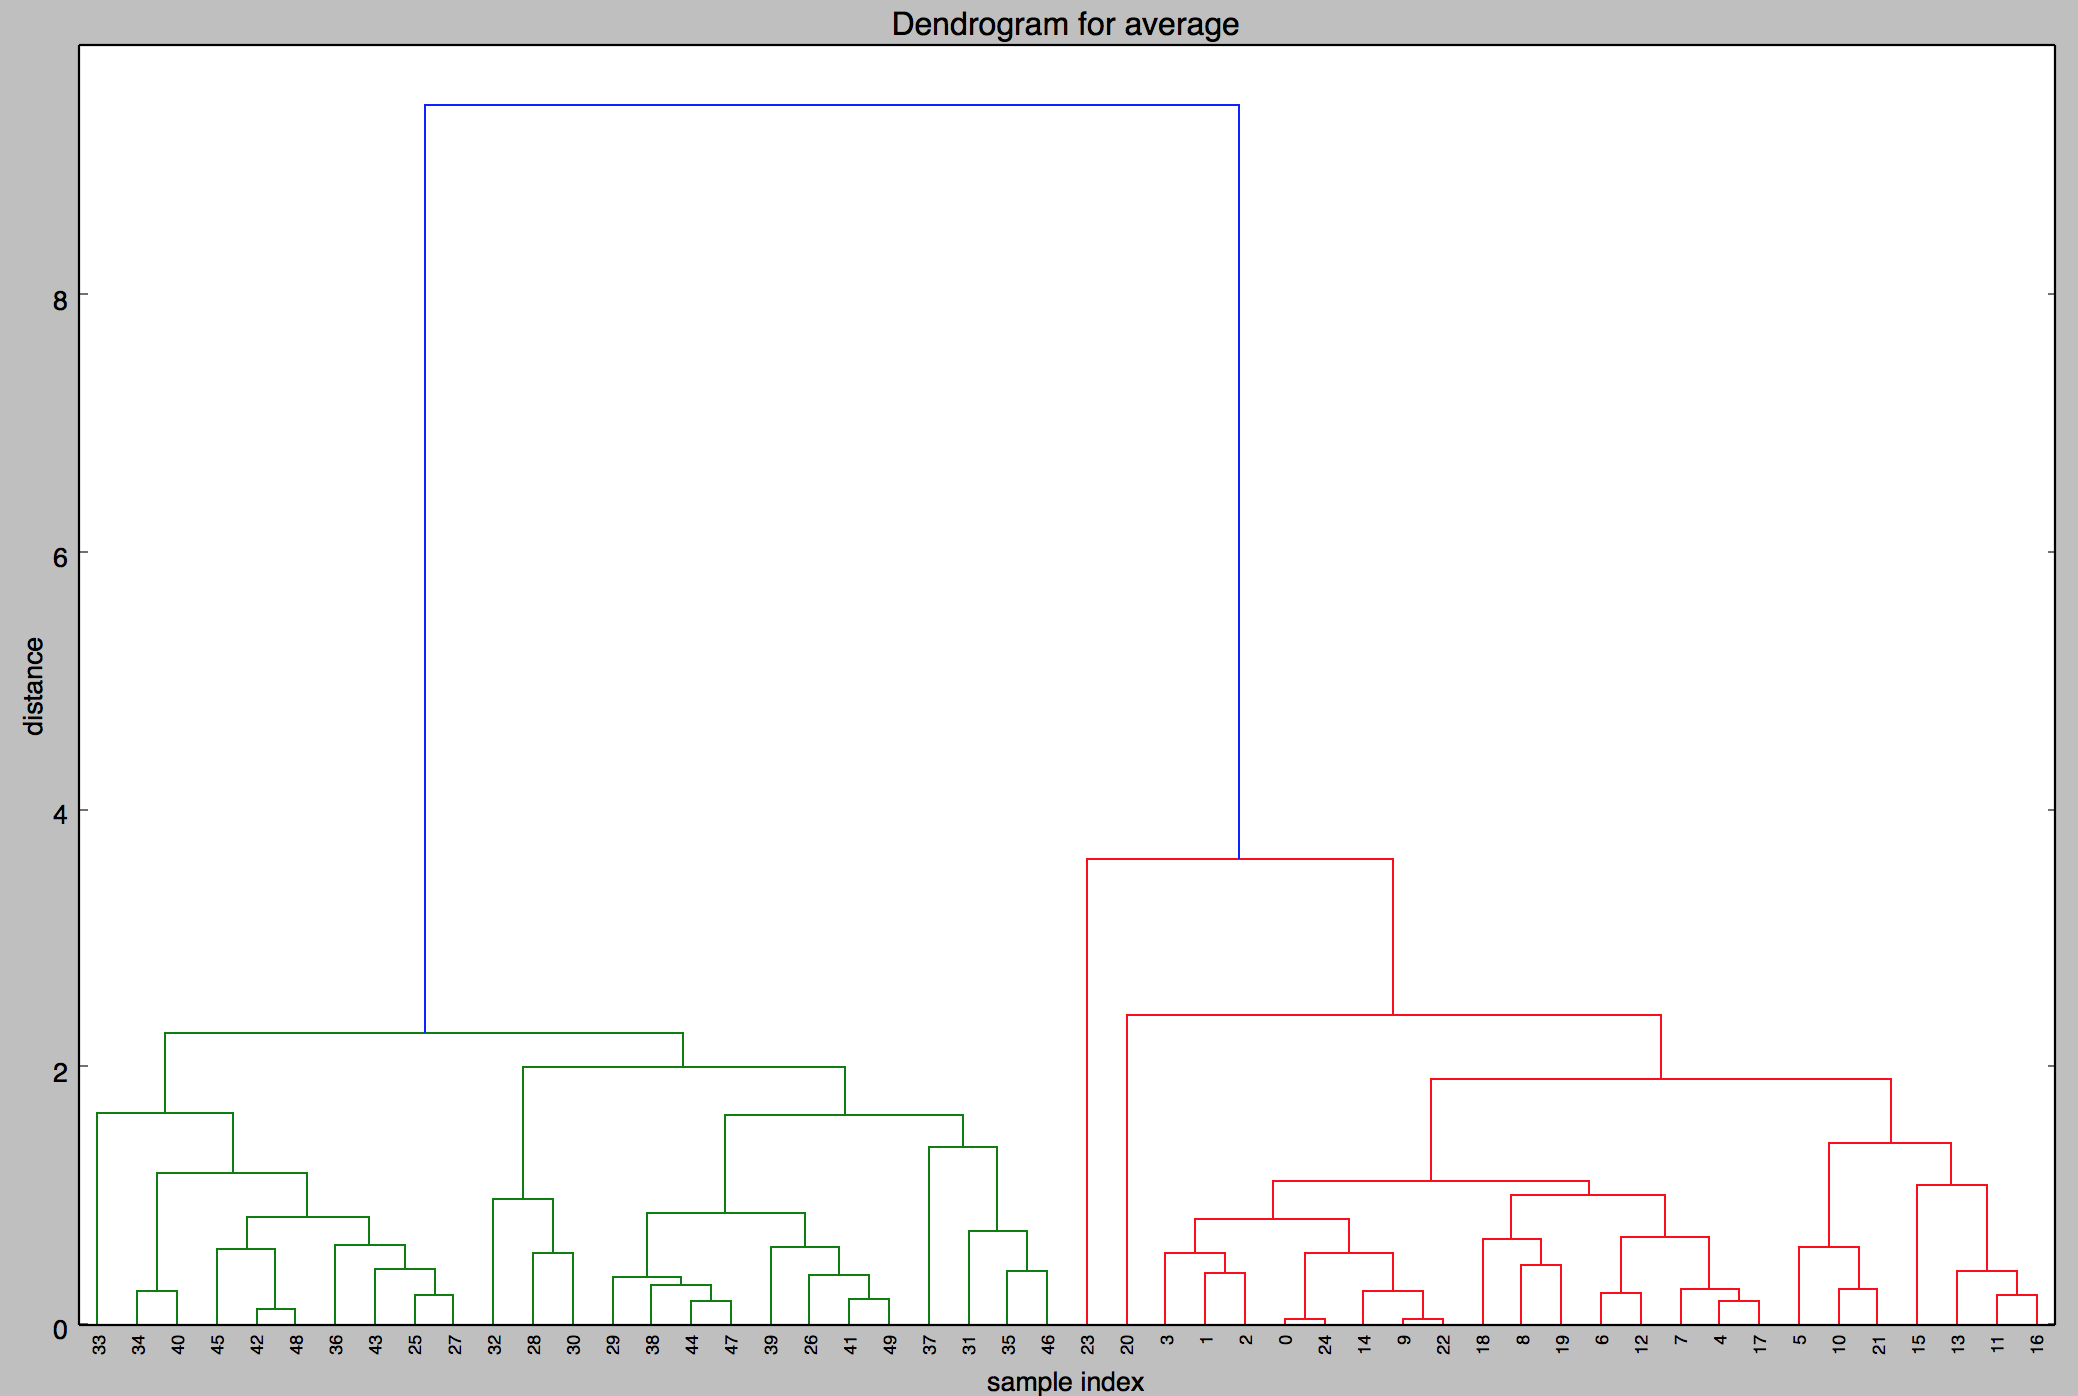
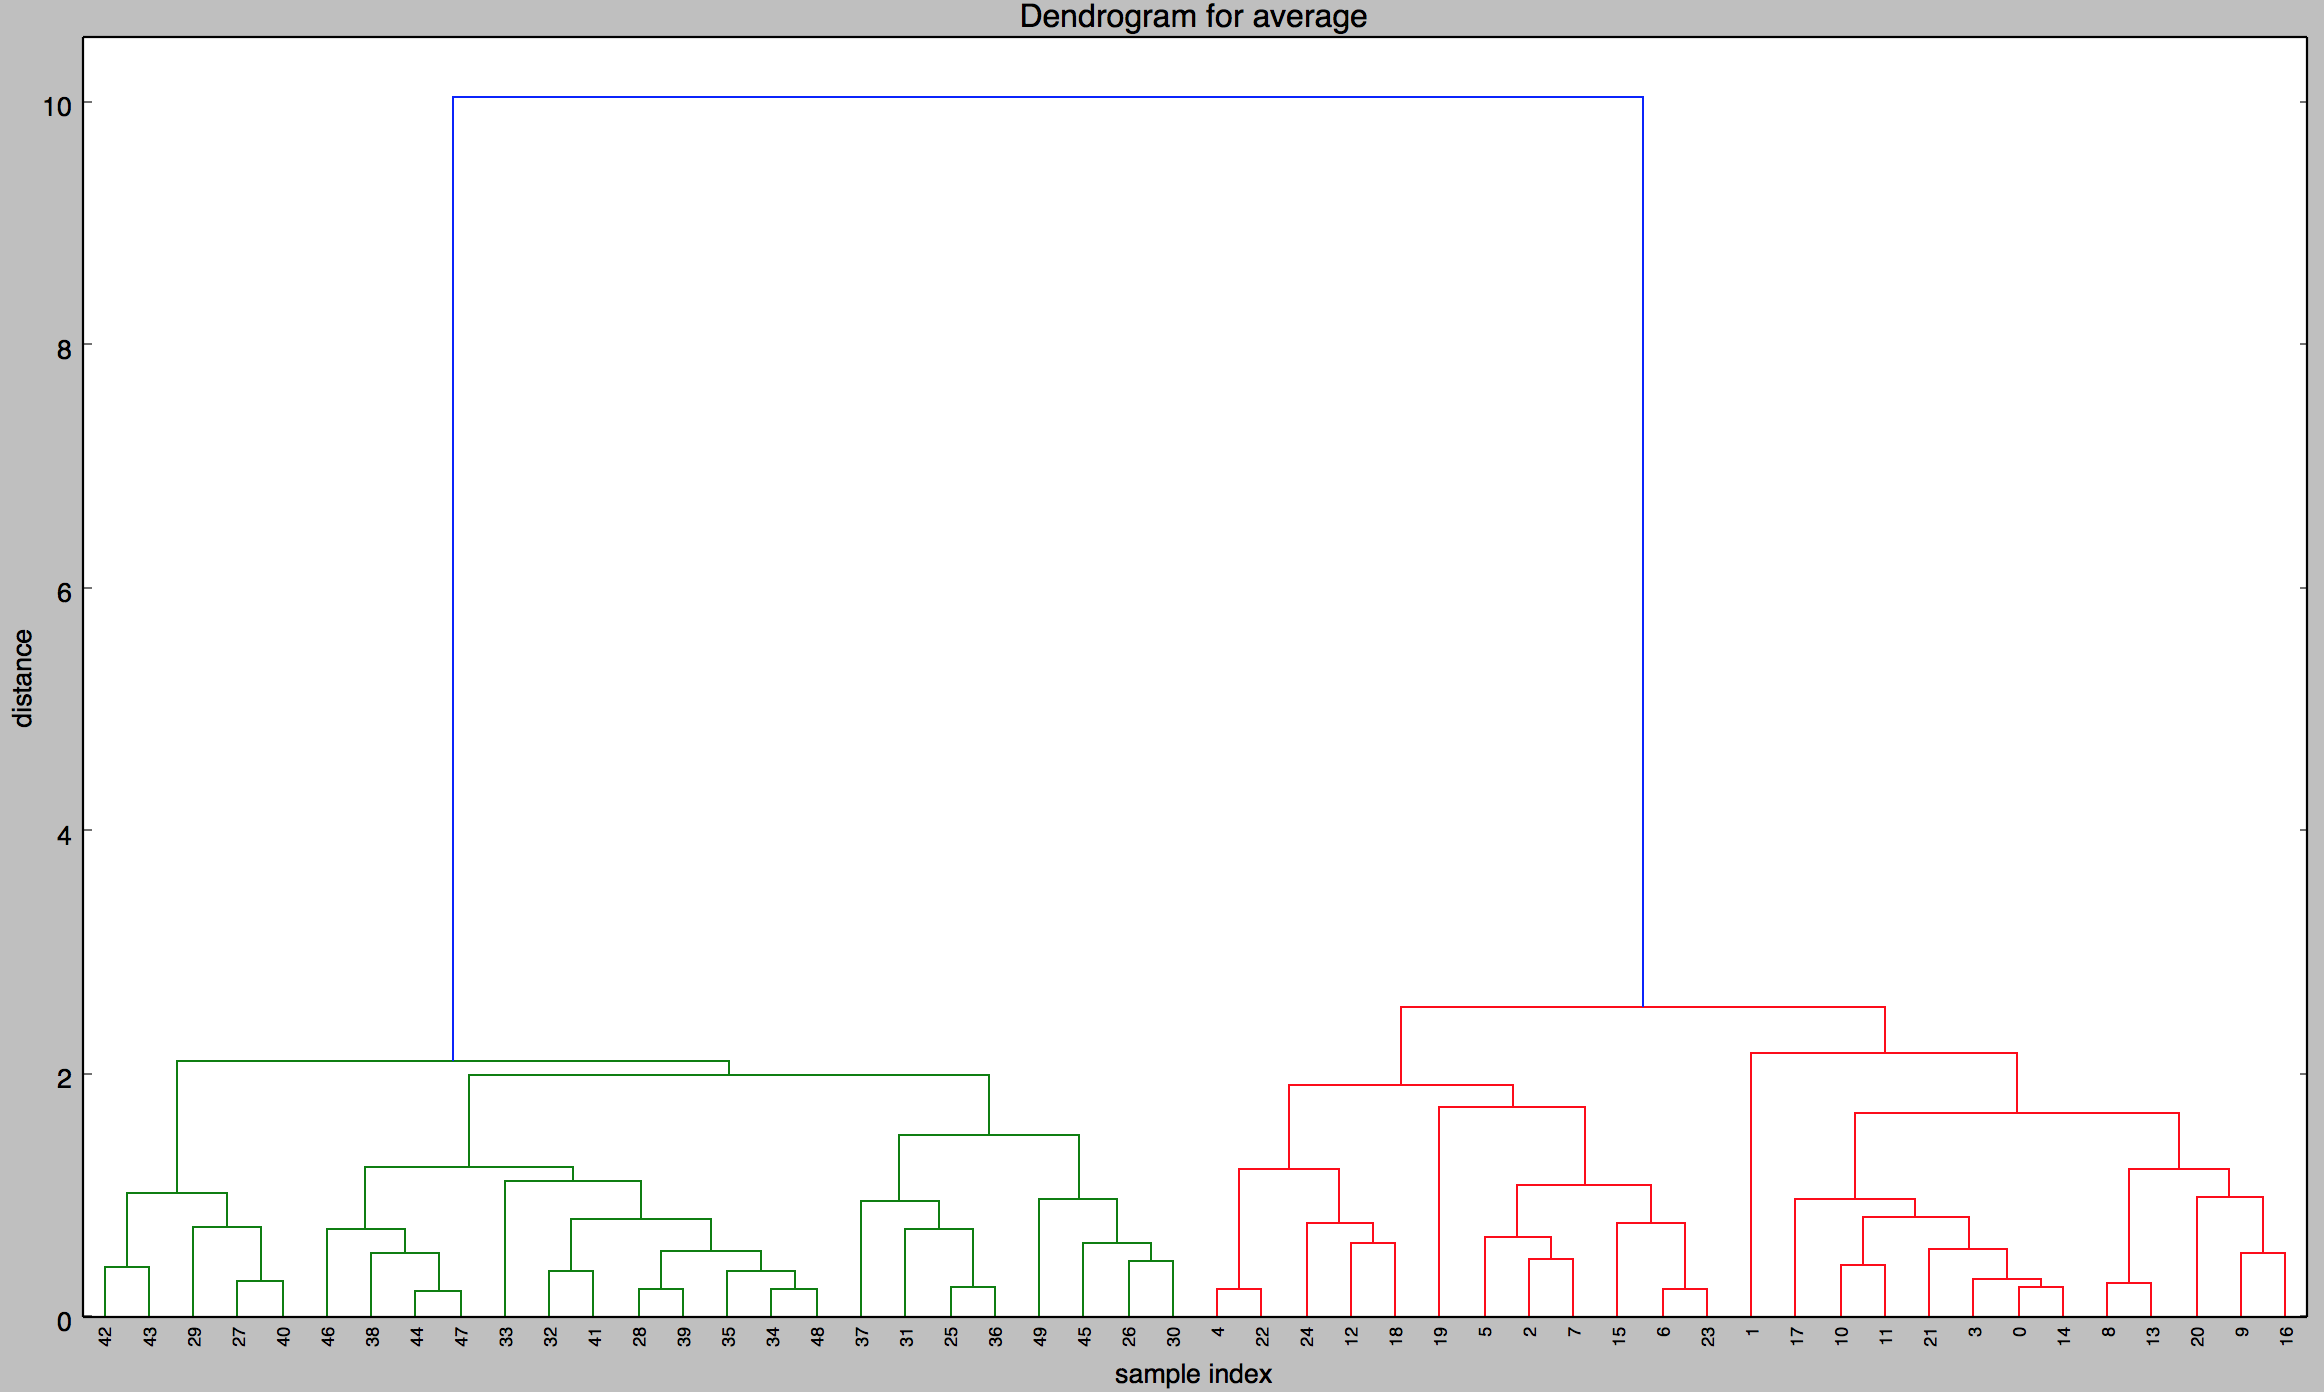
Fixed todo no. 2.

diff --git a/Report/chapter/unsupervised_learning.tex b/Report/chapter/unsupervised_learning.tex
@@ -189,4 +189,5 @@ The result of each of the three different dendrogram can be seen in figure- \ref
 
 \myFigure{DendrogramAverage.PNG}{The dendrogram for the linkage method average}{fig:dendrogramaverage}{0.5}
 
-\todo{Der bliver ikke sagt noget om resultaterne, diagrammerne bliver bare vist}
+As expected the dendrograms are different from each other due to the different linkage methods that are used to generate them. 
+But Average and Complete looks more correct compared to single, where two observation belongs to its own clusters. This can mean that maybe two clusters are not the best solution, and the data set should maybe be divided into more clusters. In this case four cluster would be better.
